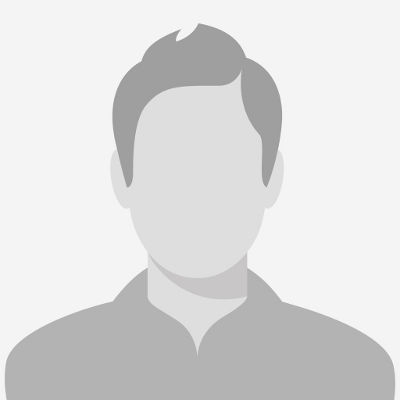
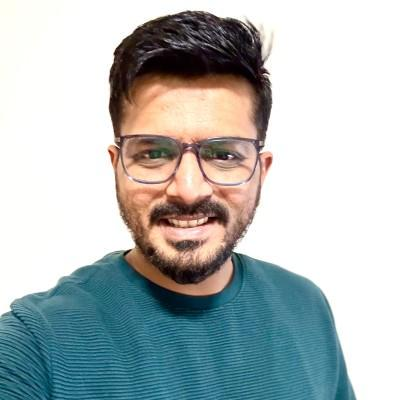
Added functionality

diff --git a/frontend/src/components/Resume.jsx b/frontend/src/components/Resume.jsx
@@ -24,9 +24,8 @@ const PDFFrame = styled.iframe`
 `;
 
 const Resume = () => {
-  //Old ID : 1kxV5SQxPdPjSvgQ0GF1n5MjdkZSMSZcO
-  const googleDriveFileId = "1MNXkDWZBregc1LKQFcMaZcjxRxXy5oyjtkNwa5TgqQs"; // replace with your actual file ID
 
+  const googleDriveFileId = "16qUPS5RGIQLmQng2k5aPiD3-K5M5XH8f"; // replace with your actual file ID
 
   return (
     <ResumeContainer className="section">